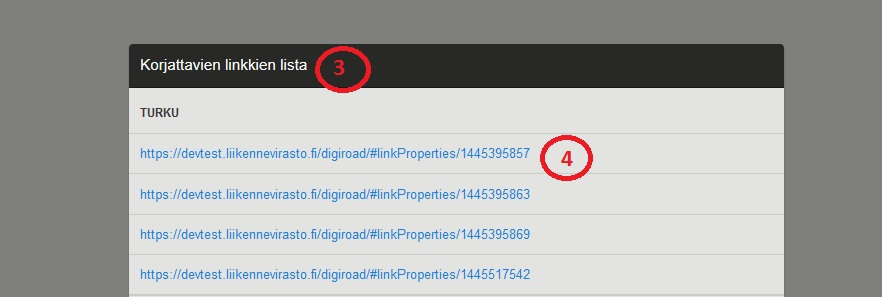
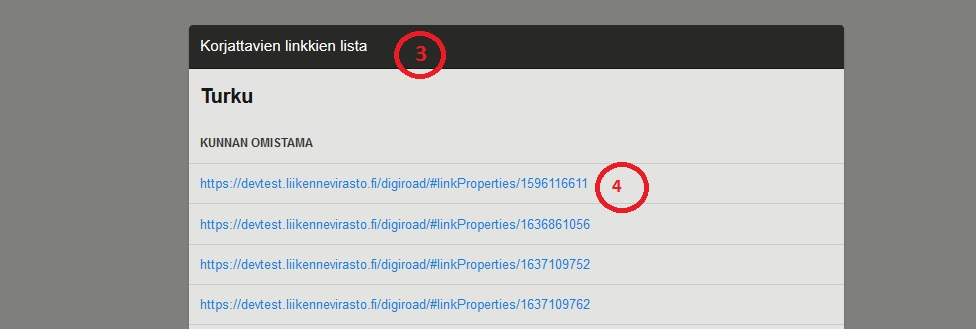
update manual

Changed region(s): [[0.1224, 0.0606, 0.8878, 1.0]]

diff --git a/UI/manual/index.md b/UI/manual/index.md
@@ -170,9 +170,9 @@ _Tielinkin ominaisuustietojen muokkaus._
 
 ####Korjattavat tielinkit####
 
-Uudet linkit ovat korjattavien linkkien listalla (3), koska niilt&auml; puuttuu toiminnallinen luokka tai linkin tyyppi (1). Linkki on kartalla musta, kunnes tieto on lis&auml;tty. Korjattavien linkkien listaan p&auml;&auml;see tielinkki-tasolta ominaisuustietotaulun alareunassa olevan painikkeen kautta (2). Listasta voi klikata korjattavaa tielinkki&auml; (4), jolloin sovellus avautuu kyseisen linkin kohdalta. Korjattava linkki poistuu listalta vasta sitten, kun sille on lis&auml;tty sek&auml; toiminnallinen luokka ett&auml; linkkityyppi. 
+Uudet linkit ovat korjattavien linkkien listalla (3), koska niilt&auml; puuttuu toiminnallinen luokka tai linkin tyyppi (1). Korjattavien linkkien lista on luokiteltu tien omistajuuden mukaan. Linkki on kartalla musta, kunnes tieto on lis&auml;tty. Korjattavien linkkien listaan p&auml;&auml;see tielinkki-tasolta ominaisuustietotaulun alareunassa olevan painikkeen kautta (2). Listasta voi klikata korjattavaa tielinkki&auml; (4), jolloin sovellus avautuu kyseisen linkin kohdalta. Korjattava linkki poistuu listalta vasta sitten, kun sille on lis&auml;tty sek&auml; toiminnallinen luokka ett&auml; linkkityyppi. 
 
-Korjattavilla linkeill&auml; on liikennevirran suunta -tieto valmiina. Tieto tulee Maanmittauslaitokselta geometriatiedon yhteydess&auml;. Jos tiedoissa on virheit&auml;, voi virheelliset liikennevirran suunta -tiedot voi korjata k&auml;ytt&ouml;liittym&auml;ss&auml; samalla kun linkille lis&auml;t&auml;&auml;n toiminnallinen luokka ja linkkityyppi.
+Korjattavilla linkeill&auml; on liikennevirran suunta -tieto valmiina. Tieto tulee Maanmittauslaitokselta geometriatiedon yhteydess&auml;. Jos tiedoissa on virheit&auml;, voi virheelliset liikennevirran suunta -tiedot voi korjata k&auml;ytt&ouml;liittym&auml;ss&auml; samalla kun linkille lis&auml;t&auml;&auml;n toiminnallinen luokka ja linkkityyppi. Korjattavien linkkien listaan ei tule uusia kevyen liikenteen v&auml;ylien, ajopolkujen ja ajoteiden tielinkkej&auml;, koska n&auml;iden tiedot saadaan Maanmittauslaitokselta. Toiminnallinen luokka ja tielinkin tyyppi t&auml;ydennet&auml;&auml;n n&auml;ille tielinkille automaattisesti. 
 
 ![Korjattava linkki](k47.jpg)
 
@@ -375,7 +375,7 @@ _Joukkoliikenteen pys&auml;kin poistaminen._
 
 Nopeusrajoitus on liikennev&auml;yl&auml;lle asetettu ajoneuvon suurin sallittu nopeus. Karttan&auml;kym&auml;&auml;n voi valita nopeusrajoitukset valitsemalla tietolajit-paletista (1) Nopeusrajoitukset. Karttaa tarkennettaessa nopeusrajoitukset paksuuntuvat, jotta niiden erottaminen on helpompaa. Nopeusrajoitukset on visualisoitu eri v&auml;rein nopeusrajoituksen arvon mukaan. Lis&auml;ksi nopeusrajoituksilla on ympyr&auml;, joka kertoo nopeusrajoituksen arvon. V&auml;rikoodien selitteet n&auml;kyv&auml;t Nopeusrajoitukset-valinnan alla, kun valitsee Nopeusrajoitukset.
 
-Jos tielinkill&auml; ei ole nopeusrajoitusta, sovellus generoi sen itse siten, ett&auml; katujen nopeusrajoitus on 50km/h ja maanteiden sek&auml; yksityisteiden 80km/h. Nopeusrajoitus tulee n&auml;kyviin, kun sovellus on generoinut sen.
+Jos tielinkill&auml; ei ole ollut aiemmin nopeusrajoitusta, sovellus generoi sille tuntemattoman nopeusrajoituksen. Tuntematon nopeusrajoitus n&auml;kyy mustana.
 
 ![Nopeusrajoitusten valinta](k18.jpg)
 
